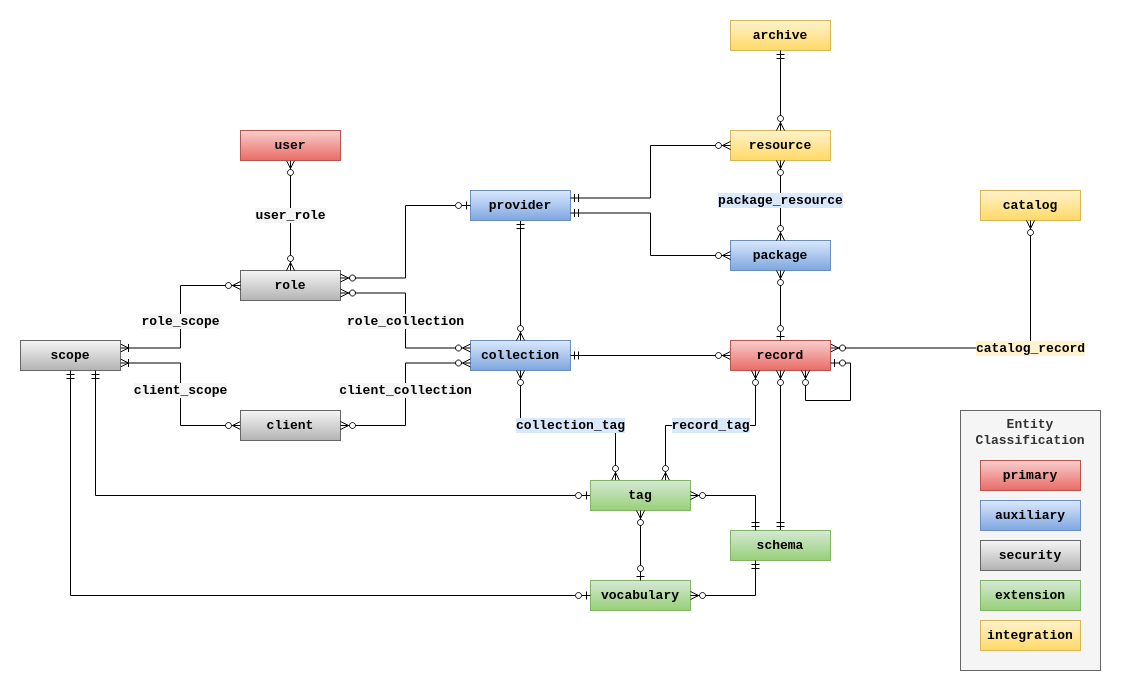
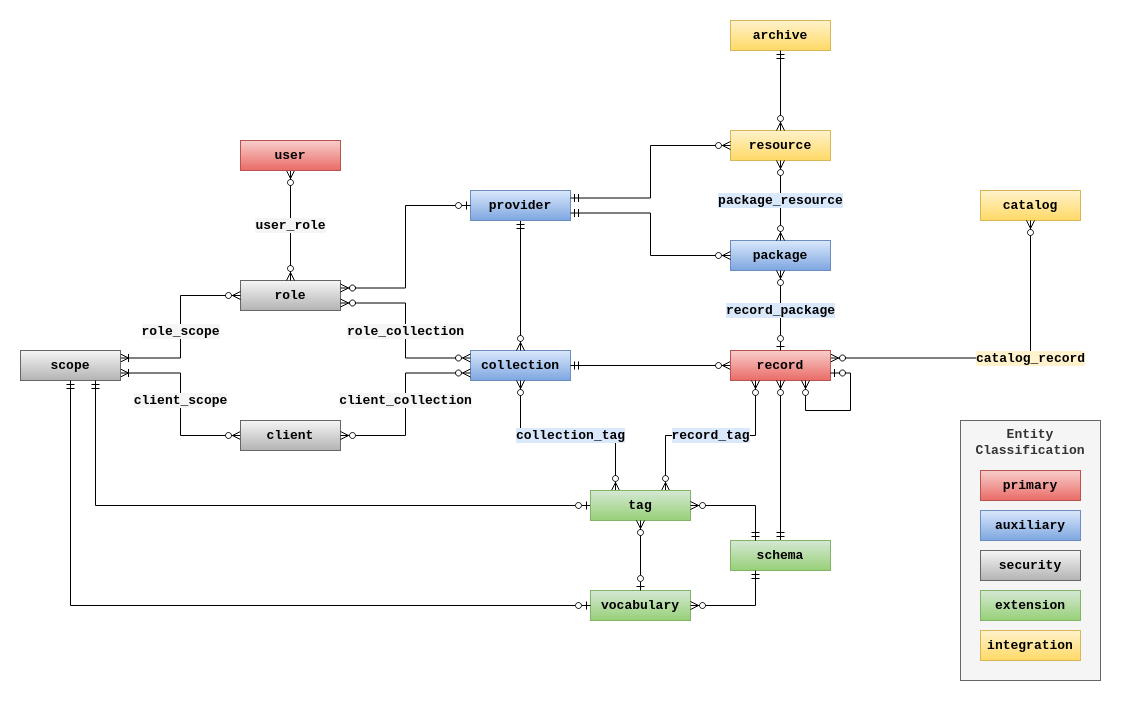
Manage the record-package linkage from the record side

diff --git a/odp/db/models/record.py b/odp/db/models/record.py
@@ -3,6 +3,7 @@ from datetime import datetime, timezone
 
 from sqlalchemy import CheckConstraint, Column, Enum, ForeignKey, ForeignKeyConstraint, Identity, Index, Integer, String, TIMESTAMP, text
 from sqlalchemy.dialects.postgresql import JSONB
+from sqlalchemy.ext.associationproxy import association_proxy
 from sqlalchemy.orm import relationship
 
 from odp.const.db import AuditCommand, SchemaType, TagType
@@ -56,6 +57,11 @@ class Record(Base):
     parent = relationship('Record', remote_side=id)
     children = relationship('Record', viewonly=True)
 
+    # one-to-many record_package entities are persisted by
+    # assigning/removing Package instances to/from packages
+    record_packages = relationship('RecordPackage', cascade='all, delete-orphan', passive_deletes=True)
+    packages = association_proxy('record_packages', 'package', creator=lambda p: RecordPackage(package=p))
+
     # view of associated tags (one-to-many)
     tags = relationship('RecordTag', viewonly=True)
 
@@ -83,6 +89,22 @@ class RecordAudit(Base):
     _collection_id = Column(String, nullable=False)
     _schema_id = Column(String, nullable=False)
     _parent_id = Column(String)
+
+
+class RecordPackage(Base):
+    """One-to-many record-package association.
+
+    This association table allows the record-package linkage to be
+    controlled from the record side while enforcing a one-to-many
+    relationship.
+    """
+    __tablename__ = 'record_package'
+
+    record_id = Column(String, ForeignKey('record.id', ondelete='CASCADE'), primary_key=True)
+    package_id = Column(String, ForeignKey('package.id', ondelete='RESTRICT'), primary_key=True, unique=True)
+
+    record = relationship('Record', viewonly=True)
+    package = relationship('Package')
 
 
 class RecordTag(Base):

diff --git a/migrate/versions/2023_12_22_cf2750a8fc1e_create_one_to_many_record_package_.py b/migrate/versions/2023_12_22_cf2750a8fc1e_create_one_to_many_record_package_.py
@@ -1,0 +1,38 @@
+"""Create one-to-many record-package association table
+
+Revision ID: cf2750a8fc1e
+Revises: e139ee351ea6
+Create Date: 2023-12-22 15:17:06.209326
+
+"""
+from alembic import op
+import sqlalchemy as sa
+
+# revision identifiers, used by Alembic.
+revision = 'cf2750a8fc1e'
+down_revision = 'e139ee351ea6'
+branch_labels = None
+depends_on = None
+
+
+def upgrade():
+    # ### commands auto generated by Alembic ###
+    op.create_table('record_package',
+                    sa.Column('record_id', sa.String(), nullable=False),
+                    sa.Column('package_id', sa.String(), nullable=False),
+                    sa.ForeignKeyConstraint(['package_id'], ['package.id'], ondelete='RESTRICT'),
+                    sa.ForeignKeyConstraint(['record_id'], ['record.id'], ondelete='CASCADE'),
+                    sa.PrimaryKeyConstraint('record_id', 'package_id'),
+                    sa.UniqueConstraint('package_id')
+                    )
+    op.drop_constraint('package_record_id_fkey', 'package', type_='foreignkey')
+    op.drop_column('package', 'record_id')
+    # ### end Alembic commands ###
+
+
+def downgrade():
+    # ### commands auto generated by Alembic ###
+    op.add_column('package', sa.Column('record_id', sa.VARCHAR(), autoincrement=False, nullable=True))
+    op.create_foreign_key('package_record_id_fkey', 'package', 'record', ['record_id'], ['id'], ondelete='SET NULL')
+    op.drop_table('record_package')
+    # ### end Alembic commands ###

diff --git a/odp/db/models/package.py b/odp/db/models/package.py
@@ -11,8 +11,7 @@ class Package(Base):
     """A package represents a set of resources that constitute
     a digital object.
 
-    A package may include non-authoritative metadata, which can
-    be used when creating/updating the linked record.
+    A package may include non-authoritative metadata.
     """
 
     __tablename__ = 'package'
@@ -23,9 +22,6 @@ class Package(Base):
 
     provider_id = Column(String, ForeignKey('provider.id', ondelete='CASCADE'), nullable=False)
     provider = relationship('Provider')
-
-    record_id = Column(String, ForeignKey('record.id', ondelete='SET NULL'))
-    record = relationship('Record')
 
     _repr_ = 'id', 'provider_id', 'record_id',
 
